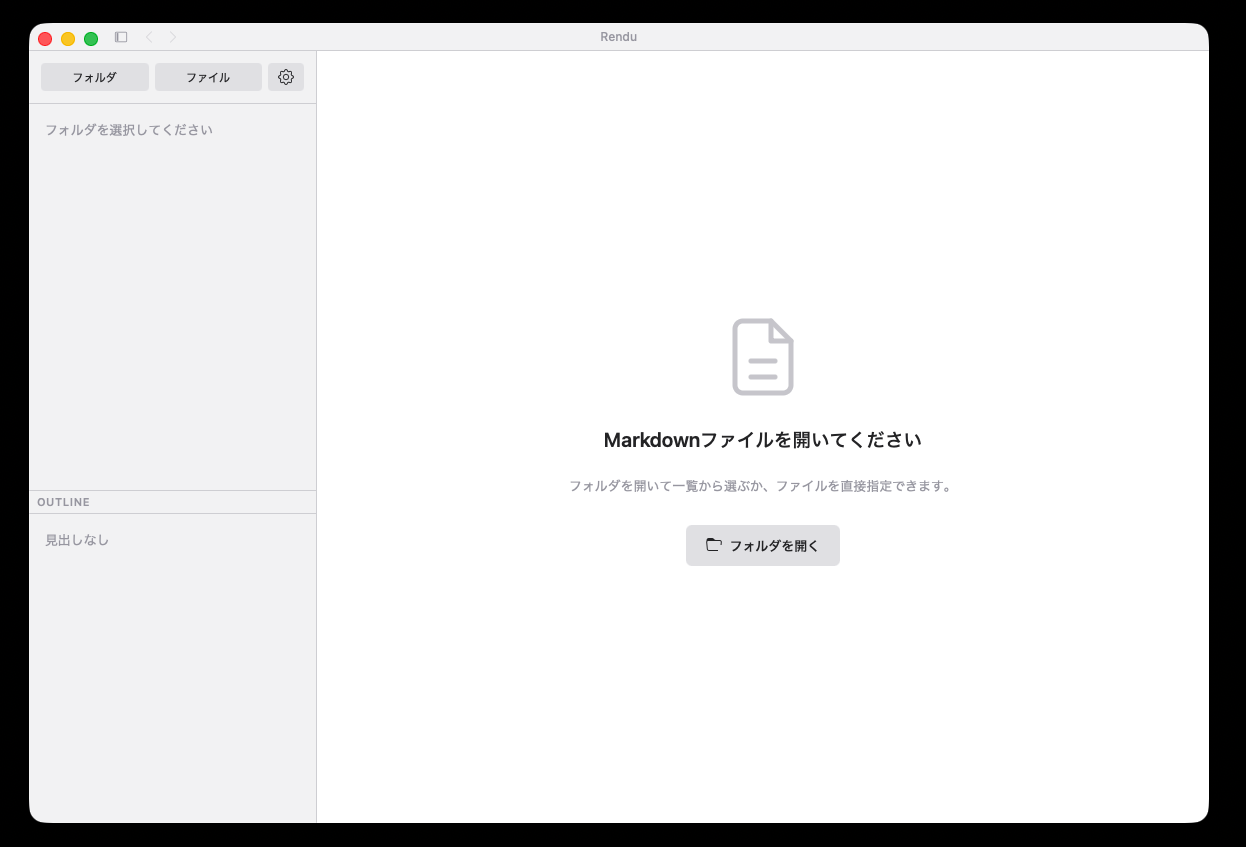
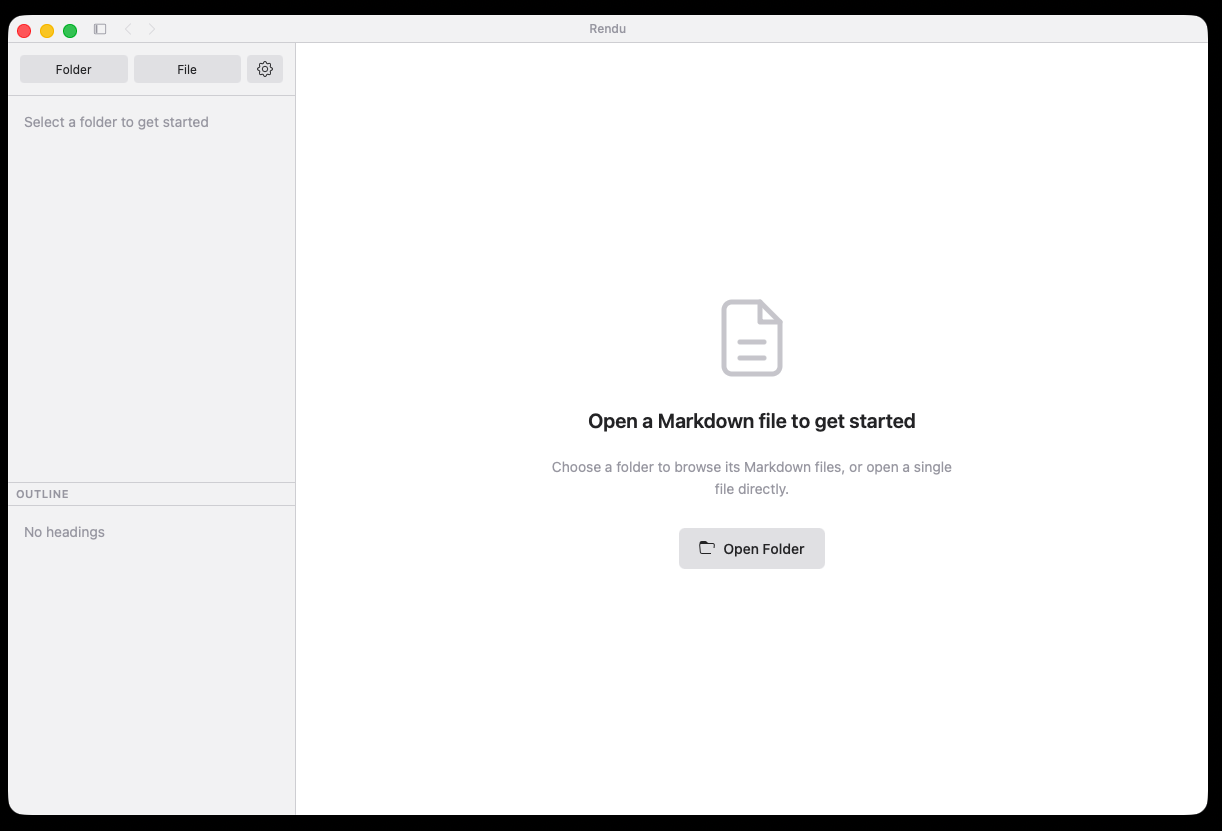
Help メニューに Website リンク追加 + スクショ更新
- Help > Rendu Website で GitHub Pages を開く
- docs/ のスクショ3枚を最新版に差し替え

Changed region(s): [[0.0, 0.0, 0.9951, 0.9928], [0.4354, 0.361, 0.7774, 0.6919], [0.2177, 0.0602, 0.2488, 0.1203]]

diff --git a/src-tauri/src/lib.rs b/src-tauri/src/lib.rs
@@ -113,9 +113,12 @@ pub fn run() {
         .build()?;
 
       // Help menu
+      let website = MenuItemBuilder::with_id("website", "Rendu Website")
+        .build(app)?;
       let report_issue = MenuItemBuilder::with_id("report_issue", "Report Issue on GitHub...")
         .build(app)?;
       let help_menu = SubmenuBuilder::new(app, "Help")
+        .item(&website)
         .item(&report_issue)
         .build()?;
 
@@ -136,6 +139,7 @@ pub fn run() {
           "open_folder"  => { let _ = app_handle.emit("menu-open-folder", ()); }
           "open_file"    => { let _ = app_handle.emit("menu-open-file", ()); }
           "print"        => { let _ = app_handle.emit("menu-print", ()); }
+          "website"      => { let _ = open::that("https://kashioka.github.io/Rendu/"); }
           "report_issue" => { let _ = open::that("https://github.com/kashioka/Rendu/issues"); }
           _ => {}
         }
